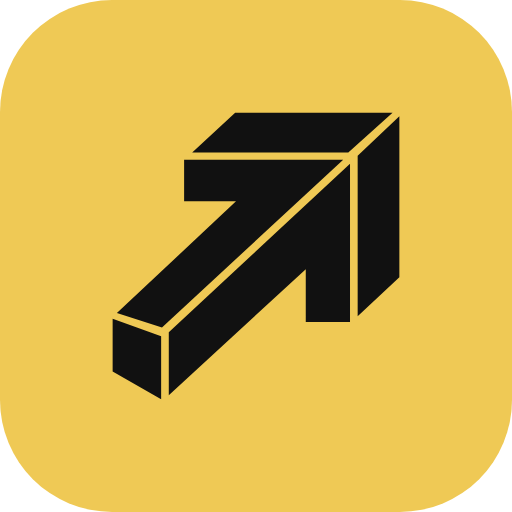
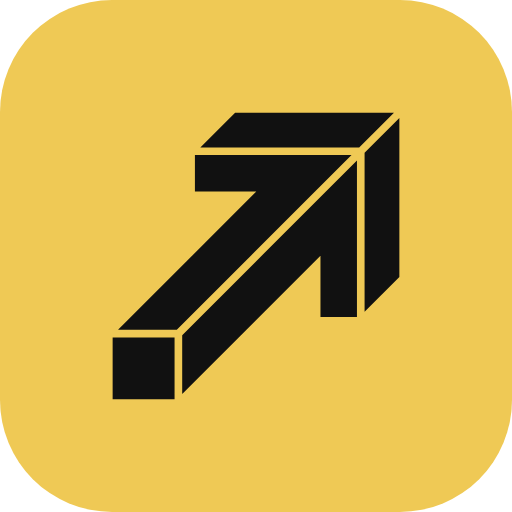
로고 화살표 다시 그림: 대칭·정사각 끝면·틈 폭 통일
- 원본 그림에서 따낸 좌표 대신 45° 축 대칭 기하로 다시 그림
- 꼬리 끝면을 정사각으로 바꿔 몸통 모서리와 정확히 맞춤
- 면 사이 틈 폭을 한 값으로 통일, 평행 모서리 정렬
- 공유 이미지 아래 띠를 사이트 노랑(#EFC955)으로 맞춤

Claude-Session: https://claude.ai/code/session_019TG6f4H3zaKjWgG3w1iNZE

diff --git a/_src/build.py b/_src/build.py
@@ -97,7 +97,7 @@ def og_brand():
     y = 150 + logo.height + 56
     d.text(((W - d.textlength(t1, font=fb)) / 2, y), t1, font=fb, fill=(17, 18, 20))
     d.text(((W - d.textlength(t2, font=fr)) / 2, y + 78), t2, font=fr, fill=(111, 112, 118))
-    d.rectangle((0, H - 10, W, H), fill=(242, 201, 76))
+    d.rectangle((0, H - 10, W, H), fill=(239, 201, 85))
     c.save(OUT + out, 'JPEG', quality=86, optimize=True); return out
 OG_SITE = og_brand() if os.path.exists(FONT_B) or not os.path.exists(OUT + 'og/site.jpg') else 'og/site.jpg'
 img_of = lambda a: (a.get('image') or {}).get('src') or 'img/logo.webp'
